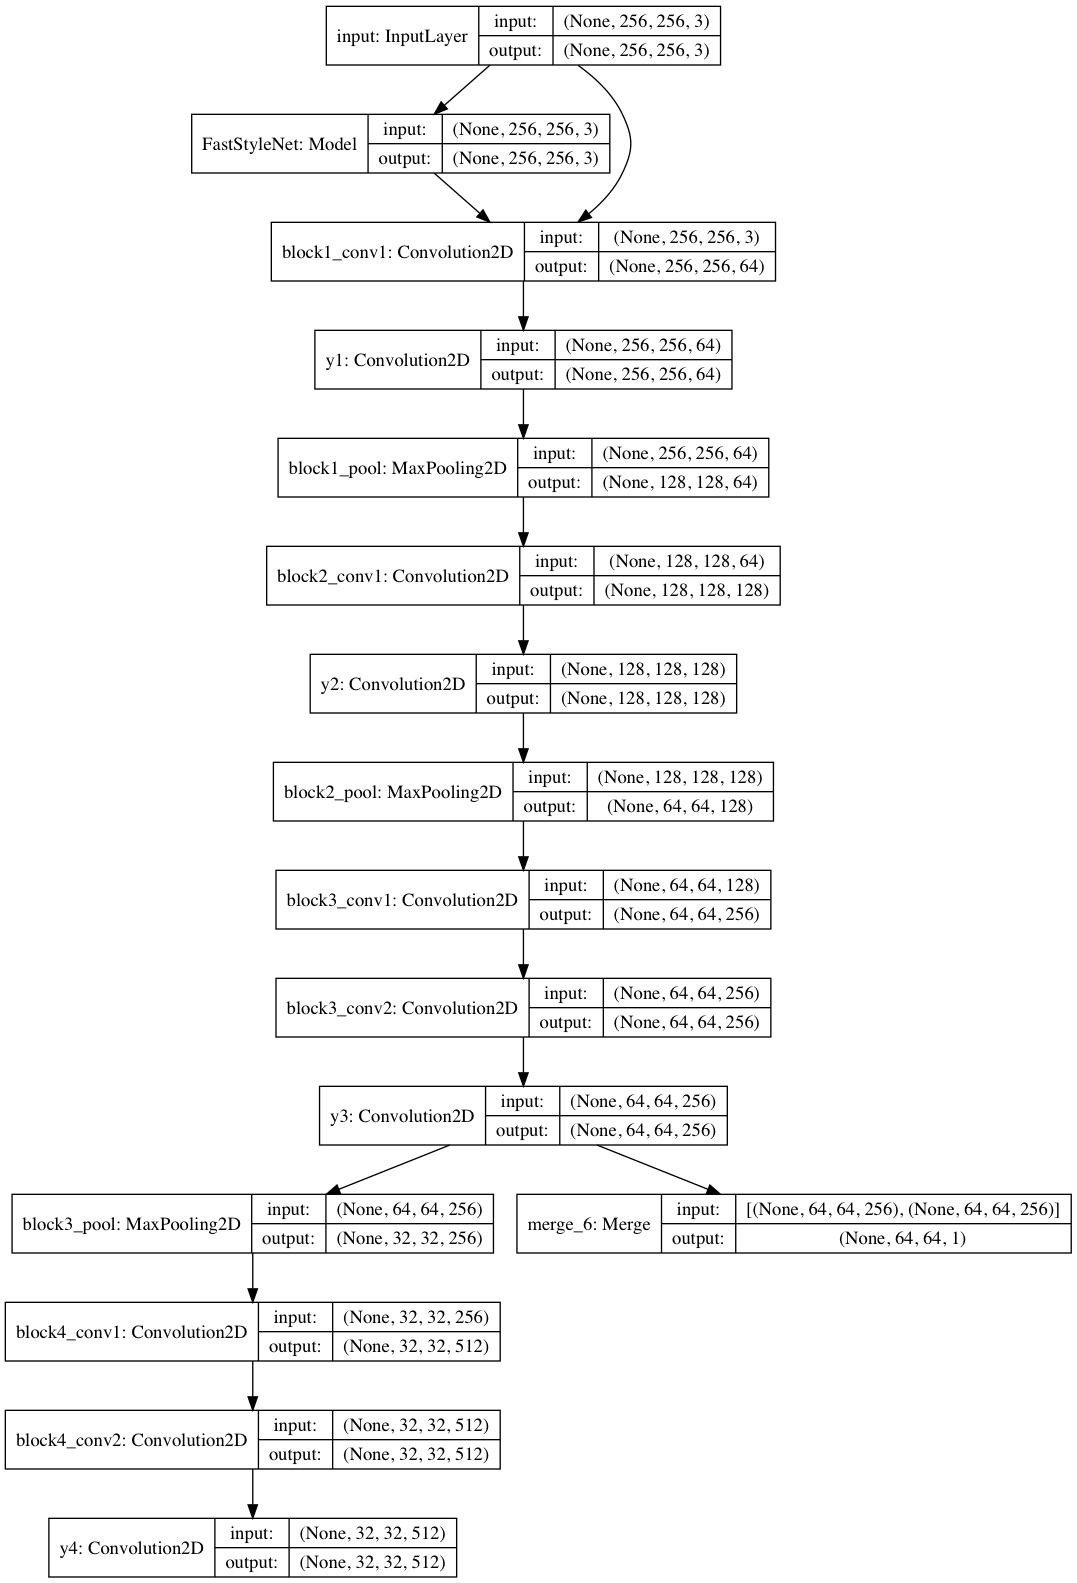
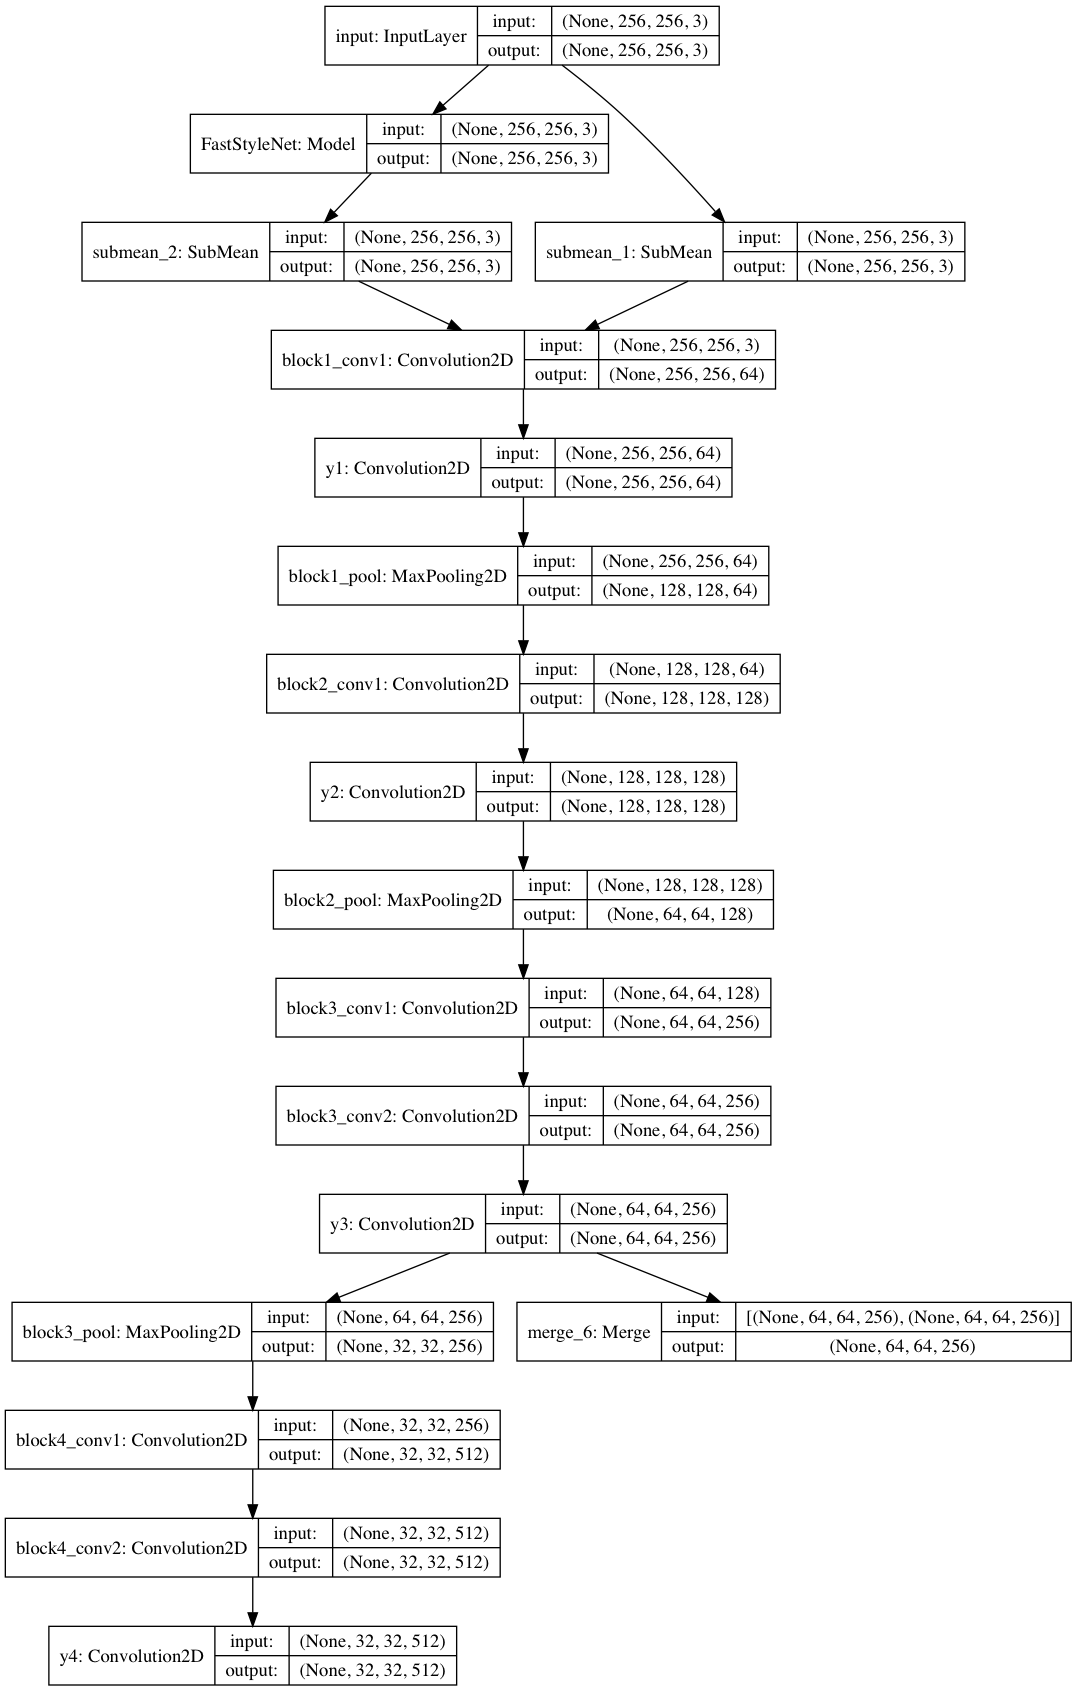
edit model

Changed region(s): [[0.0, 0.0, 1.0, 1.0]]

diff --git a/model.py b/model.py
@@ -7,9 +7,10 @@ from keras.layers.normalization import BatchNormalization
 
 from keras import backend as K
 from keras.engine.topology import Layer
-import numpy as np
-
 from keras.applications.vgg16 import VGG16
+
+import numpy as np
+from copy import deepcopy
 
 vgg16 = VGG16(include_top=False, weights='imagenet', input_tensor=None, input_shape=(256,256,3))
 
@@ -35,6 +36,19 @@ class Denormalize(Layer):
         '''
 
         return (x + 1) * 127.5
+
+    def get_output_shape_for(self, input_shape):
+        return input_shape
+
+class SubMean(Layer):
+    def __init__(self, **kwargs):
+        super(SubMean, self).__init__(**kwargs)
+
+    def build(self, input_shape):
+        pass
+
+    def call(self, x, mask=None):
+        return x - 120
 
     def get_output_shape_for(self, input_shape):
         return input_shape
@@ -115,17 +129,21 @@ class FastStyleNet:
         for l in vgg16.layers:
             l.trainable = False
 
-        vgg16.layers[2].name = "y1"
-        vgg16.layers[5].name = "y2"
-        vgg16.layers[9].name = "y3"
+        vgg16.layers[ 2].name = "y1"
+        vgg16.layers[ 5].name = "y2"
+        vgg16.layers[ 9].name = "y3"
         vgg16.layers[13].name = "y4"
 
         ip = Input((self.img_height, self.img_width, 3), name="input")
-        for_tv = fsn(ip)
+
+        y0 = fsn(ip)
+
+        ip2 = SubMean()(ip)
+        cy0 = SubMean()(y0)
 
         # I think that it can be done more easily here...
         # Please give me some idea.
-        h  = vgg16.layers[1](for_tv)
+        h  = vgg16.layers[1](cy0)
         y1 = vgg16.layers[2](h)
         h  = vgg16.layers[3](y1)
         h  = vgg16.layers[4](h)
@@ -139,22 +157,22 @@ class FastStyleNet:
         h  = vgg16.layers[12](h)
         y4 = vgg16.layers[13](h)
 
-        h  = vgg16.layers[1](ip)
-        h  = vgg16.layers[2](h)
-        h  = vgg16.layers[3](h)
-        h  = vgg16.layers[4](h)
-        h  = vgg16.layers[5](h)
-        h  = vgg16.layers[6](h)
-        h  = vgg16.layers[7](h)
-        h  = vgg16.layers[8](h)
-        cy3 = vgg16.layers[9](h)
+        h2 = vgg16.layers[1](ip2)
+        h2 = vgg16.layers[2](h2)
+        h2 = vgg16.layers[3](h2)
+        h2 = vgg16.layers[4](h2)
+        h2 = vgg16.layers[5](h2)
+        h2 = vgg16.layers[6](h2)
+        h2 = vgg16.layers[7](h2)
+        h2 = vgg16.layers[8](h2)
+        cy3 = vgg16.layers[9](h2)
 
         # Calculating the square error in this layer has no problem.
         cy3 = merge(inputs=[cy3, y3],
-                    output_shape=(64, 64, 1),
+                    output_shape=(64, 64, 256),
                     mode=lambda T: K.square(T[0]-T[1]))
 
-        train_model = Model(input=ip, output=[y1, y2, y3, y4, cy3, for_tv])
+        train_model = Model(input=ip, output=[y1, y2, y3, y4, cy3, y0])
         return train_model, fsn
 
 if __name__ == "__main__":
